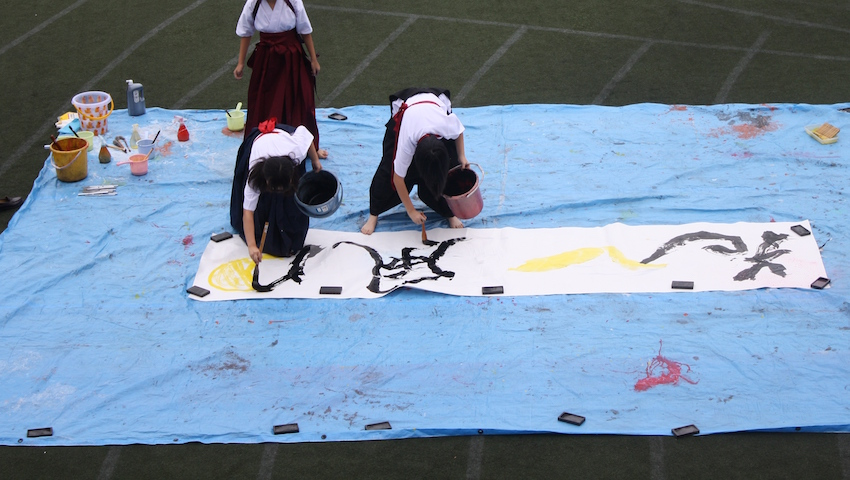
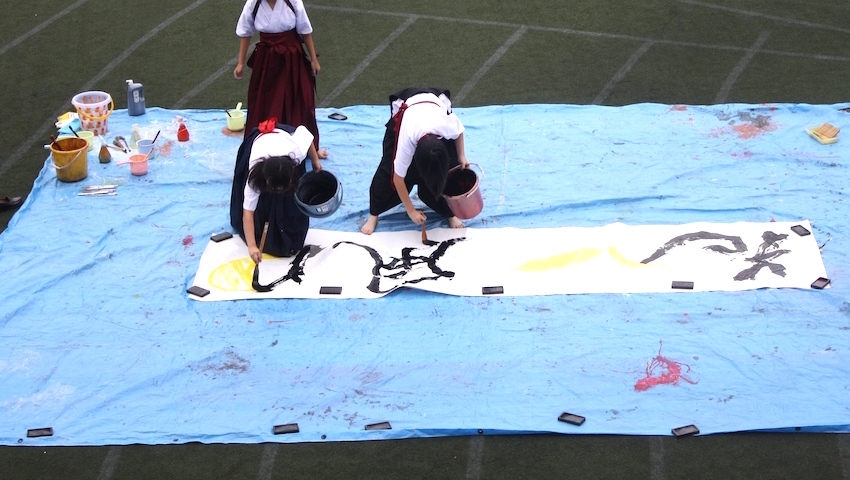
画像明るく

diff --git a/diary.html b/diary.html
@@ -69,14 +69,14 @@
        <div class="day">
   <h2>文化祭準備最終日! 本番まであと1日! Coming soon...</h2>
 <!--
-  <img src="" alt="" width="300" height="200">
-  <img src="" alt="" width="300" height="200">
+  <img src="IMG_1620.JPG" alt="" width="300" height="200">
+  <img src="IMG_1636.JPG" alt="" width="300" height="200">
 
-  <img src="" alt="" width="300" height="200">
-  <img src="" alt="" width="300" height="200">
+  <img src="IMG_1649.JPG" alt="" width="300" height="200">
+  <img src="IMG_1585.JPG" alt="" width="300" height="200">
 
-  <img src="" alt="" width="300" height="200">
-  <img src="" alt="" width="300" height="200">
+  <img src="IMG_1585.JPG" alt="" width="300" height="200">
+  <img src="IMG_1585.JPG" alt="" width="300" height="200">
 -->
 
 </div><div class="day">
@@ -100,6 +100,7 @@
     <br>　　是非お越しください！</p>
   <p>　　　　[1日目・2日目]　11:15〜12:05</p>
 </div>
+
 <div class="day">
   <h2>文化祭準備3日目！本番まであと3日！[9/14]</h2>
   <img src="IMG_1390.JPG" alt="" width="300" height="200">
@@ -114,6 +115,7 @@
   <p>　吹奏楽部のマーチングはとても有名です。たったの30分ですが後悔はさせません! 吹奏楽部のひと夏がつまった演技をご覧あれ! 軽音楽部は野外でもライブがあります! 部長に一言お願いしたら「ライブ来てくれよな!!!」と言って去って行きました。さすが軽音、イケメンですね。(笑)
     <br>　各部オリジナルのTシャツにも注目してください!</p>
 </div>
+
 <div class="day">
   <h2>文化祭準備2日目！[9/13]</h2>
   <img src="IMG_1358.JPG" alt="" width="300" height="200">
@@ -124,6 +126,7 @@
   <img src="IMG_1374.JPG" alt="" width="300" height="200">
   <p>　茶道部と演劇部のリハーサルの様子です。茶道部では美味しい和菓子と一緒に一休みできる空間で優美な浴衣姿の部員たちがおもてなしをしてくれます。演劇部は”夢から醒めた夢”というミュージカルをやります。ミュージカルは演劇部としては初の試みだそうです！公演中、もしかしたらおばけに会えるかも！？お楽しみに！</p>
 </div>
+
 <div class="day">
   <h2>文化祭準備初日！[9/12]</h2>
   <p>　今日は全校生徒にパンフレットとチケットが配られました!去年までのチケットとは違い、今年はデザインが変わりました。
@@ -133,6 +136,7 @@
   <img src="IMG_1354.JPG" alt="" width="300" height="200">
   <img src="IMG_1348.JPG" alt="" width="300" height="200">
 </div>
+
 </div>
 </main>
 </div>

diff --git a/index.html b/index.html
@@ -55,11 +55,6 @@
 
                     <span id="label"></span>
                 </div>
-<!--
-                <div class="welcome">
-                    <p>第６９回洗足学園文化祭公式ホームページにようこそ！</p>
-                </div>
--->
                 <div class="anataha">
                     <p>ようこそ！あなたは</p>
                 </div>
